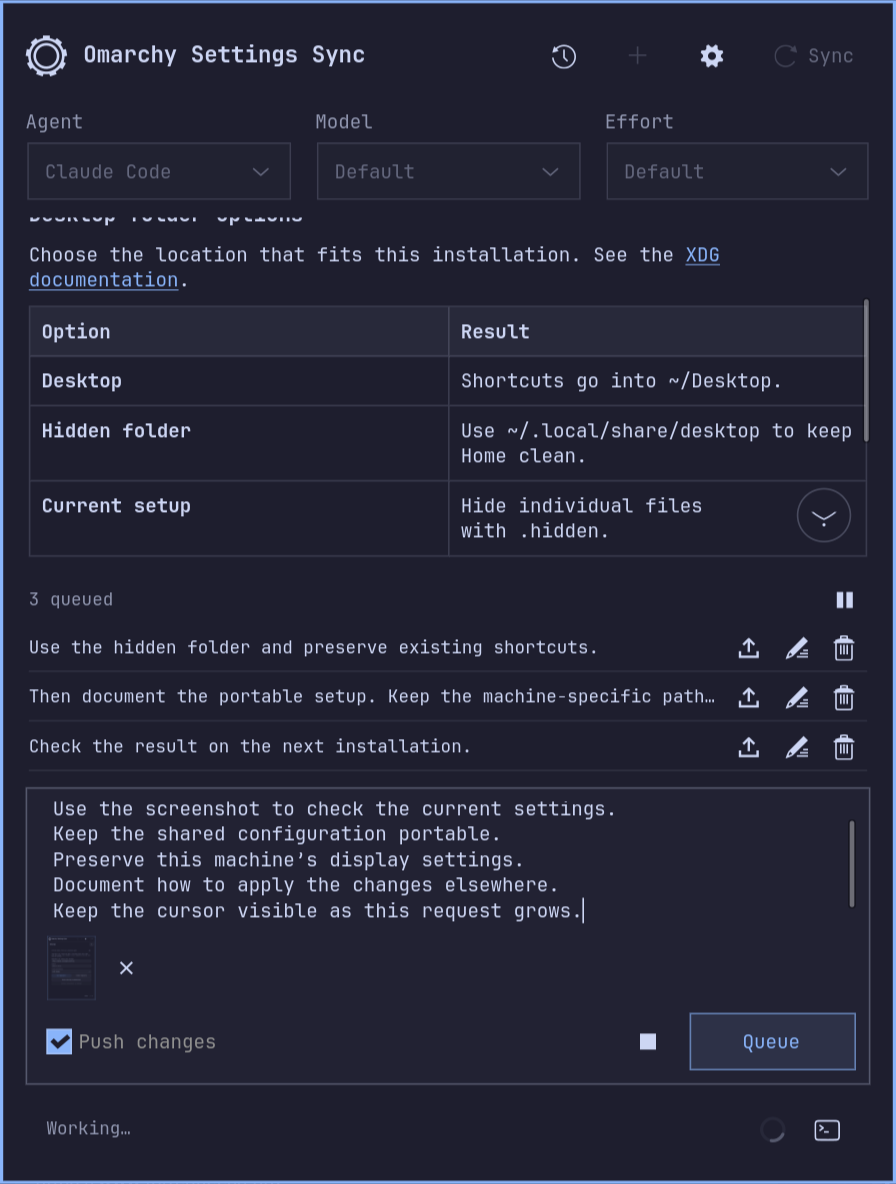
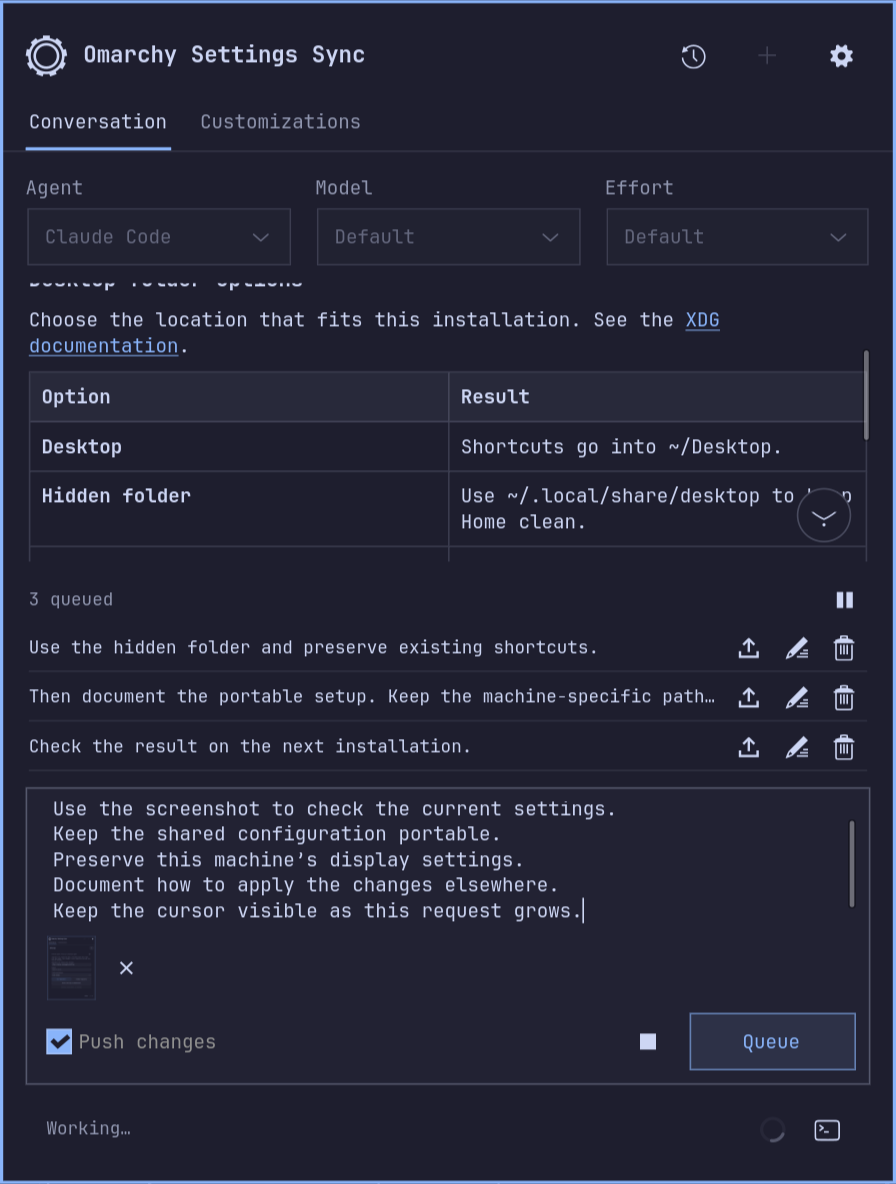
Move Sync into the Customizations tab
Sync now sits in the tab's action bar, which shows how many updates are
waiting or when this machine last synced, and switches to Discard and
Apply while choices are staged. Opening the tab fetches the repository
so the list is current, without applying anything. Repositories without
a catalog keep the agent-led Sync from the same button. Refresh the
README screenshots for the new header and tabs.

diff --git a/plugin/features_view.py b/plugin/features_view.py
@@ -2,7 +2,9 @@
 from __future__ import annotations
 
 from dataclasses import dataclass, field
+from datetime import datetime
 import platform
+import time
 from pathlib import Path
 
 from gi.repository import GLib, Gtk, Pango
@@ -207,14 +209,23 @@ class FeaturesPage(Gtk.Box):
         scroll = Gtk.ScrolledWindow(vexpand=True, hscrollbar_policy=Gtk.PolicyType.NEVER)
         scroll.set_child(self.listing)
         main.append(scroll)
+        # The tab's action bar: Sync when nothing is staged, Apply when it is.
         self.bar = Gtk.Box(spacing=8, visible=False)
         self.bar.add_css_class("pending-bar")
         self.bar_text = Gtk.Label(xalign=0, wrap=True, hexpand=True)
         self.bar_text.set_wrap_mode(Pango.WrapMode.WORD_CHAR)
         self.bar.append(self.bar_text)
+        sync = Gtk.Box(spacing=6)
+        sync.append(Gtk.Image.new_from_icon_name("view-refresh-symbolic"))
+        sync.append(Gtk.Label(label=tr('Sync')))
+        self.sync_button = Gtk.Button(child=sync, valign=Gtk.Align.CENTER, tooltip_text=tr(
+            'Apply repository updates to the customizations that are on for this machine'))
+        self.sync_button.connect("clicked", lambda *_: self.window.sync())
+        self.bar.append(self.sync_button)
         discard = Gtk.Button(label=tr('Discard'), valign=Gtk.Align.CENTER)
         discard.add_css_class("flat")
         discard.connect("clicked", lambda *_: self.discard())
+        self.discard_button = discard
         self.bar.append(discard)
         self.apply_button = Gtk.Button(label=tr('Apply'), valign=Gtk.Align.CENTER)
         self.apply_button.add_css_class("suggested-action")
@@ -243,15 +254,20 @@ class FeaturesPage(Gtk.Box):
         self.banner_mode = None
         self.controls = []
         self.removing = None
+        self.fetched = 0
 
     def sync_sensitivity(self):
         for widget in self.controls:
             widget.set_sensitive(not self.window.busy)
-        if self.bar.get_visible():
-            self.apply_button.set_sensitive(not self.window.busy and not self.loading)
+        self.update_bar()
 
     # Data ------------------------------------------------------------------
-    def refresh(self, fetch=False):
+    def refresh(self, fetch=None):
+        if fetch is None:
+            # Opening the tab shows the latest list without applying anything.
+            fetch = not self.window.busy and time.monotonic() - self.fetched > 60
+        if fetch:
+            self.fetched = time.monotonic()
         if self.loading or not self.window.settings.get("repository"):
             if not self.window.settings.get("repository"):
                 self.show_banner(tr('Choose a configuration repository in Settings.'), None)
@@ -581,10 +597,30 @@ class FeaturesPage(Gtk.Box):
         self.render()
 
     def update_bar(self):
-        if not self.staged or not self.snapshot:
+        snapshot = self.snapshot
+        idle = self.window.sync_available() and not self.loading
+        self.sync_button.set_sensitive(idle)
+        self.apply_button.set_sensitive(idle)
+        if not snapshot:
             self.bar.set_visible(False)
             return
-        by_id = {f.id: f for f in self.snapshot.features}
+        staged = bool(self.staged)
+        self.sync_button.set_visible(not staged)
+        self.discard_button.set_visible(staged)
+        self.apply_button.set_visible(staged)
+        self.bar.set_visible(True)
+        if staged:
+            self.bar_text.remove_css_class("feature-subtitle")
+        else:
+            self.bar_text.add_css_class("feature-subtitle")
+            self.bar_text.set_text(self.sync_summary())
+            waiting = self.updates()
+            if waiting:
+                self.sync_button.add_css_class("suggested-action")
+            else:
+                self.sync_button.remove_css_class("suggested-action")
+            return
+        by_id = {f.id: f for f in snapshot.features}
         ons = [i for i, e in self.staged.items() if e.get("state") == "on"]
         offs = [i for i, e in self.staged.items() if e.get("state") == "off"]
         other = [i for i, e in self.staged.items() if "state" not in e]
@@ -601,8 +637,27 @@ class FeaturesPage(Gtk.Box):
         if any(f.needs_agent for f in touched):
             parts.append(tr('uses the agent'))
         self.bar_text.set_text(" · ".join(parts))
-        self.apply_button.set_sensitive(not self.window.busy and not self.loading)
-        self.bar.set_visible(True)
+
+    def updates(self):
+        snapshot = self.snapshot
+        if not snapshot or not snapshot.catalog:
+            return 0
+        return sum(snapshot.labels.get(f.id) == "pending" for f in snapshot.features) + len(snapshot.orphans)
+
+    def sync_summary(self):
+        snapshot = self.snapshot
+        if not snapshot.catalog:
+            return tr('Without a catalog, Sync asks the agent.')
+        count = self.updates()
+        if count:
+            return tr('{count} updates to apply', count=count)
+        when = snapshot.ledger.data.get("updated") if snapshot.ledger else None
+        try:
+            moment = datetime.fromisoformat(when).astimezone()
+        except (TypeError, ValueError):
+            return tr('Up to date')
+        stamp = moment.strftime('%H:%M') if moment.date() == datetime.now().date() else moment.strftime('%d/%m %H:%M')
+        return tr('Up to date · synced {time}', time=stamp)
 
     def apply(self):
         if not self.staged or self.window.busy or not self.snapshot:

diff --git a/tests/ui_smoke.py b/tests/ui_smoke.py
@@ -809,20 +809,23 @@ with tempfile.TemporaryDirectory(prefix="agent-settings-ui-") as temp:
             '[[feature.part]]\nkind = "agent"\ntitle = "Idle"\ninstructions = "Do it"\n')
         subprocess.run(["git", "init", "-q", str(checkout_dir)], check=True)
         subprocess.run(["git", "-C", str(checkout_dir), "remote", "add", "origin", window.settings["repository"]], check=True)
-        window.show_page("features")
         page = window.features_page
+        page.fetched = time.monotonic()  # The fixture's remote is fictional; never fetch it.
+        assert window.sync_button is page.sync_button, "Sync lives in the Customizations tab"
+        window.show_page("features")
         wait(lambda: page.snapshot is not None and page.snapshot.features)
         # No machine file yet: a new installation applies nothing until chosen.
         assert page.snapshot.labels == {"lock": "new", "idle": "new"}, page.snapshot.labels
         switches = [w for w in widgets(page.listing) if isinstance(w, Gtk.Switch)]
         assert [s.get_active() for s in switches] == [False, False]
         switches[1].set_active(True)
-        wait(lambda: page.bar.get_visible())
+        wait(lambda: page.apply_button.get_visible())
+        assert not page.sync_button.get_visible()
         page.discard()
-        assert not page.bar.get_visible() and not page.staged
+        assert not page.staged and page.sync_button.get_visible() and not page.apply_button.get_visible()
         idle = next(f for f in page.snapshot.features if f.id == "idle")
         page.toggled(idle, True)
-        wait(lambda: page.bar.get_visible())
+        wait(lambda: page.apply_button.get_visible())
         def fake_run(win, snapshot, changes):
             return [Outcome(feature, action, mode, delegated=[{"part": feature.parts[0], "action": action, "reason": "needs the agent"}])
                     for feature, action, mode in changes]
@@ -865,7 +868,7 @@ with tempfile.TemporaryDirectory(prefix="agent-settings-ui-") as temp:
         assert set(page.snapshot.labels.values()) == {"new"}, page.snapshot.labels
         assert page.undecided.get_visible()
         page.decide_new("on")
-        assert {e["state"] for e in page.staged.values()} == {"on"} and page.bar.get_visible()
+        assert {e["state"] for e in page.staged.values()} == {"on"} and page.apply_button.get_visible()
         page.discard()
         page.show_machines()
         page.machine_action(content, "use", "work-laptop")

diff --git a/plugin/app.py b/plugin/app.py
@@ -274,13 +274,6 @@ class SettingsWindow(Gtk.ApplicationWindow):
         self.new_button.connect("clicked", lambda *_: self.new_chat())
         header.append(self.new_button)
         header.append(settings_button)
-        sync_content = box(False, 6)
-        sync_content.append(Gtk.Image.new_from_icon_name("view-refresh-symbolic"))
-        sync_content.append(Gtk.Label(label="Sync"))
-        self.sync_button = Gtk.Button(child=sync_content, tooltip_text=tr('Sync'))
-        self.sync_button.add_css_class("flat")
-        self.sync_button.connect("clicked", lambda *_: self.sync())
-        header.append(self.sync_button)
         self.popup_card.append(header)
         tabs = box(False, 0)
         tabs.add_css_class("view-tabs")
@@ -297,6 +290,7 @@ class SettingsWindow(Gtk.ApplicationWindow):
         self.pages.add_named(outer, "chat")
         self.features_page = FeaturesPage(self)
         self.pages.add_named(self.features_page, "features")
+        self.sync_button = self.features_page.sync_button  # Sync lives in the Customizations tab.
         self.features_pending = False
         self.main_content = self.pages
         self.overlay = Gtk.Overlay(child=self.pages)
@@ -806,6 +800,10 @@ class SettingsWindow(Gtk.ApplicationWindow):
             return mode if mode in CLAUDE_PERMISSION_MODES else 'default'
         return self.settings.get('permissions', 'auto')
 
+    def sync_available(self):
+        return (not self.busy and not self.terminal_pid and not self.delivery_pending
+                and not self.image_pastes and not self.panels)
+
     def update_buttons(self):
         available = not self.busy and not self.terminal_pid and not self.delivery_pending and not self.image_pastes
         installed = bool(self.executables[self.agent()])
@@ -814,7 +812,6 @@ class SettingsWindow(Gtk.ApplicationWindow):
         self.send_button.set_sensitive(installed and not self.image_pastes)
         self.send_button.set_tooltip_text(tr('Enter: queue. Ctrl+Enter: send now. Shift+Enter: new line.')
                                          if running else tr('Enter: send. Shift+Enter: new line.'))
-        self.sync_button.set_sensitive(available and installed and not self.panels)
         self.terminal_button.set_sensitive(True)
         self.new_button.set_sensitive(available and not self.panels)
         self.history_button.set_sensitive(not self.panels)

diff --git a/README.md b/README.md
@@ -41,7 +41,7 @@ Examples use synthetic data.
    enable **Push changes** when you want the agent to update that repository.
 3. **On another Omarchy installation**, install the plugin, authenticate your
    chosen agent and Git account, and select the same repository and branch.
-4. Click **Sync**. The agent compares the repository with that installation,
+4. Open **Customizations** and click **Sync**. The agent compares the repository with that installation,
    preserves local changes, adapts hardware-specific settings, and applies and
    tests compatible components. Repeat Sync when you want to receive updates.
 
@@ -109,8 +109,8 @@ URL. An empty branch uses the repository's default branch. See the
 | --- | --- |
 | Settings icon, left click | Open or hide the panel; reveal a pending question |
 | Settings icon, right click | No action |
-| **Sync** | Apply the repository's customizations that are on for this machine; without a catalog, ask the agent to sync |
 | **Conversation / Customizations** tabs | Talk to the agent, or switch individual customizations on and off for this machine |
+| **Sync**, at the bottom of Customizations | Apply repository updates to what is on for this machine; without a catalog, ask the agent to sync |
 | Message field | Request a specific change; optionally publish its reusable configuration |
 | **Enter / Send / Queue** | The same button sends when idle and queues while an agent is working |
 | Queue above the message field | Compact one-line previews with **Direct now / Send now**, **Edit** and **Remove** icons; pause/resume beside the count |

diff --git a/CHANGELOG.md b/CHANGELOG.md
@@ -16,6 +16,9 @@
 - **Remove from repository** undoes a customization here and asks the agent to
   delete it from the repository; other machines undo it on their next Sync from
   their own record, even after its files are gone.
+- Move **Sync** from the header to the bottom of the Customizations tab, which
+  shows how many updates are waiting. Opening the tab fetches the repository so
+  the list is current, without applying anything.
 - With a catalog, **Sync** applies what is on for this machine without
   starting the agent unless needed. Repositories without a catalog keep the
   agent-led Sync; **Create catalog** asks the agent to convert them.
